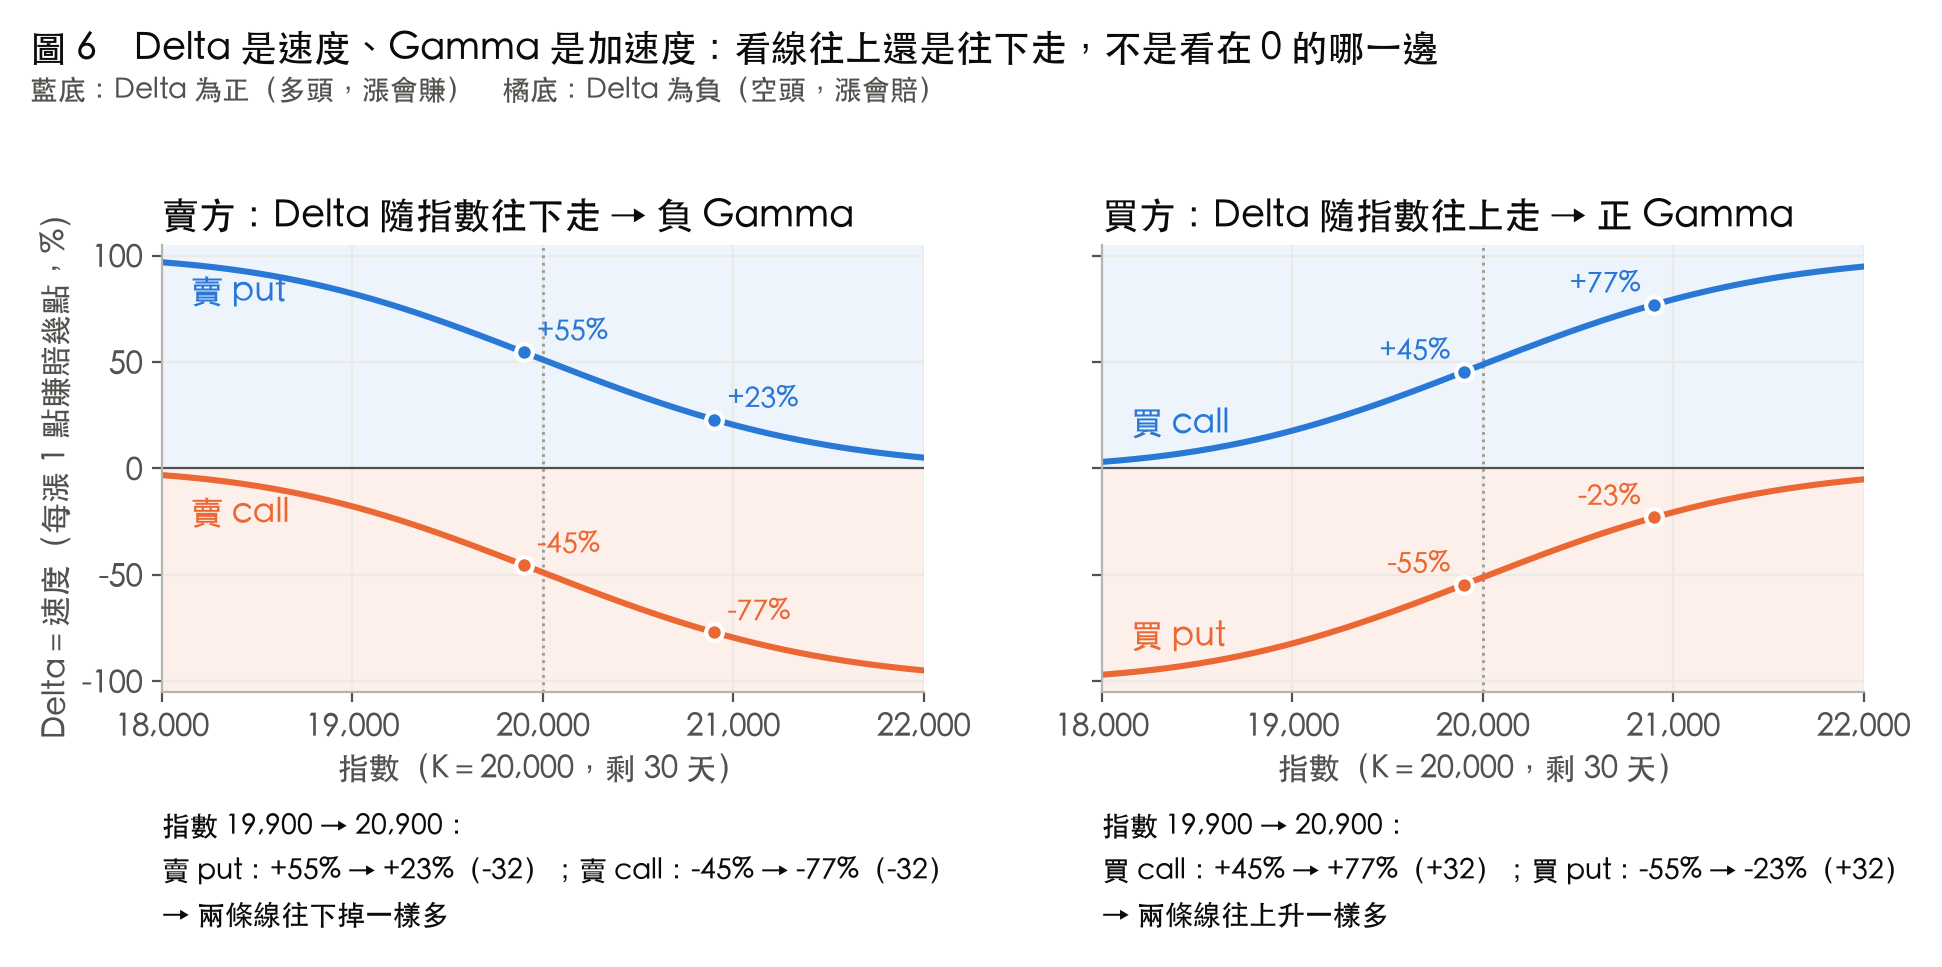
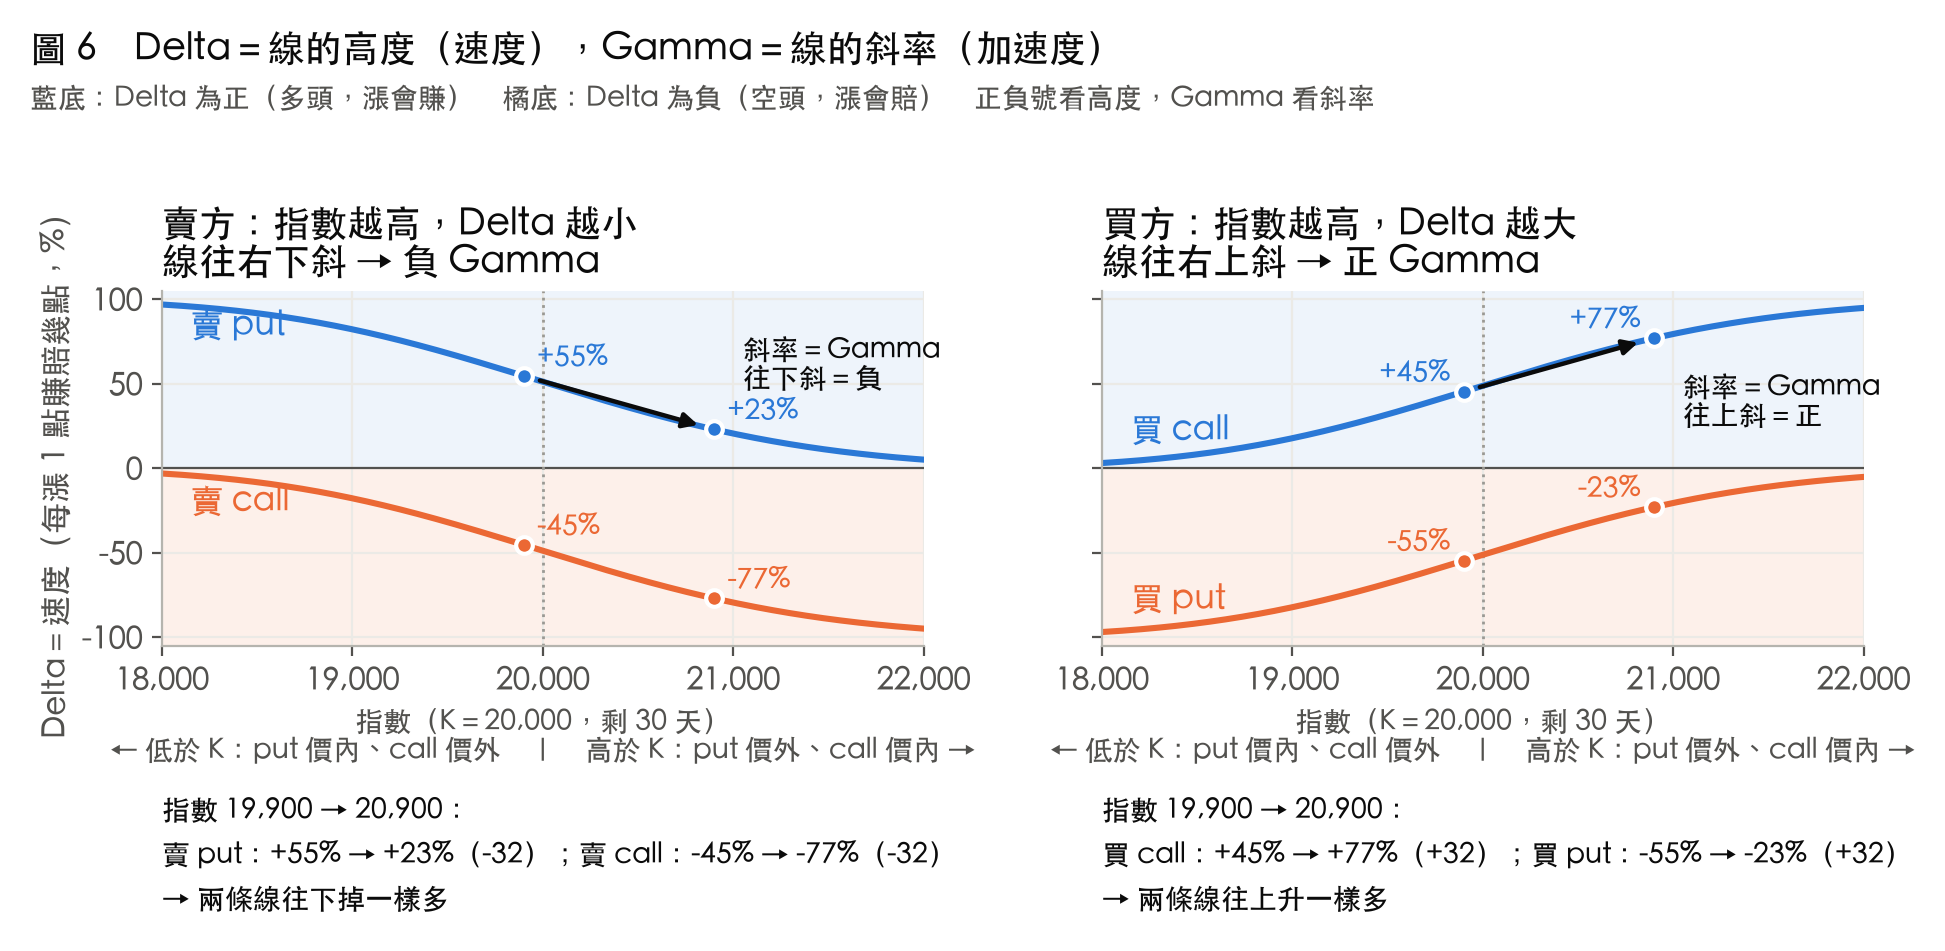
options-gex：圖 6 標題改成「高度＝Delta、斜率＝Gamma」，加斜率箭頭與價內外方向

Changed region(s): [[0.0, 0.183, 0.4943, 0.9758], [0.5252, 0.183, 0.9887, 0.9758], [0.0, 0.0305, 0.7415, 0.122]]

diff --git a/options-gex/make_figs.py b/options-gex/make_figs.py
@@ -238,11 +238,11 @@ sd6 = VOL * np.sqrt(days6 / 365)
 xs6 = np.linspace(18_000, 22_000, 801)
 p_above6 = lambda x: 1 - norm.cdf((np.log(k6 / x) + 0.5 * sd6**2) / sd6)  # 結局落在 K 之上的機率
 
-fig, axes = plt.subplots(1, 2, figsize=(10, 5.4), sharey=True)
+fig, axes = plt.subplots(1, 2, figsize=(10, 6.0), sharey=True)
 panels = [
-    (axes[0], "賣方：Delta 隨指數往下走 → 負 Gamma", "down",
+    (axes[0], "賣方：指數越高，Delta 越小\n線往右下斜 → 負 Gamma", "down",
      [("賣 put", 1 - p_above6(xs6), BLUE, (18_150, 78)), ("賣 call", -p_above6(xs6), ORANGE, (18_150, -26))]),
-    (axes[1], "買方：Delta 隨指數往上走 → 正 Gamma", "up",
+    (axes[1], "買方：指數越高，Delta 越大\n線往右上斜 → 正 Gamma", "up",
      [("買 call", p_above6(xs6), BLUE, (18_150, 16)), ("買 put", p_above6(xs6) - 1, ORANGE, (18_150, -84))]),
 ]
 for ax, title, way, lines in panels:
@@ -263,18 +263,23 @@ for ax, title, way, lines in panels:
         ax.text(lx, ly, name, color=c, fontsize=12)
         moves.append(f"{name}：{vals[0]:+.0f}% → {vals[1]:+.0f}%（{vals[1] - vals[0]:+.0f}）")
     word = "往下掉" if way == "down" else "往上升"
-    ax.text(0, -0.25, "指數 19,900 → 20,900：\n" + "；".join(moves) + f"\n→ 兩條線{word}一樣多",
+    ax.text(0, -0.40, "指數 19,900 → 20,900：\n" + "；".join(moves) + f"\n→ 兩條線{word}一樣多",
             transform=ax.transAxes, color=INK, fontsize=10, va="top", linespacing=1.6)
     ax.set_title(title, loc="left", color=INK)
-    ax.set_xlabel("指數（K＝20,000，剩 30 天）")
+    ax.set_xlabel("指數（K＝20,000，剩 30 天）\n← 低於 K：put 價內、call 價外　｜　高於 K：put 價外、call 價內 →", fontsize=10)
     ax.set_xlim(18_000, 22_000)
     ax.set_xticks(range(18_000, 22_001, 1_000))
     ax.set_ylim(-105, 105)
     thousands(ax)
 axes[0].set_ylabel("Delta＝速度（每漲 1 點賺賠幾點，%）")
-fig.suptitle("圖 6　Delta 是速度、Gamma 是加速度：看線往上還是往下走，不是看在 0 的哪一邊",
+fig.suptitle("圖 6　Delta＝線的高度（速度），Gamma＝線的斜率（加速度）",
              x=0.01, ha="left", color=INK)
-fig.text(0.01, 0.915, "藍底：Delta 為正（多頭，漲會賺）　橘底：Delta 為負（空頭，漲會賠）", color=INK2, fontsize=10)
+fig.text(0.01, 0.915, "藍底：Delta 為正（多頭，漲會賺）　橘底：Delta 為負（空頭，漲會賠）　正負號看高度，Gamma 看斜率", color=INK2, fontsize=10)
+for ax, name, y, lab, ty in ((axes[0], "賣 put", 1 - p_above6(xs6), "斜率＝Gamma\n往下斜＝負", 62), (axes[1], "買 call", p_above6(xs6), "斜率＝Gamma\n往上斜＝正", 40)):
+    y0, y1 = np.interp(19_900, xs6, y) * 100, np.interp(20_900, xs6, y) * 100
+    ax.annotate("", xy=(20_900, y1), xytext=(19_900, y0),
+                arrowprops=dict(arrowstyle="-|>", color=INK, lw=1.6, shrinkA=6, shrinkB=6))
+    ax.text(21_050, ty, lab, color=INK, fontsize=10, va="center")
 fig.tight_layout(rect=(0, 0.02, 1, 0.92))
 fig.savefig(OUT / "fig06_delta_speed.png", dpi=200, bbox_inches="tight", pad_inches=0.15)
 plt.close(fig)
